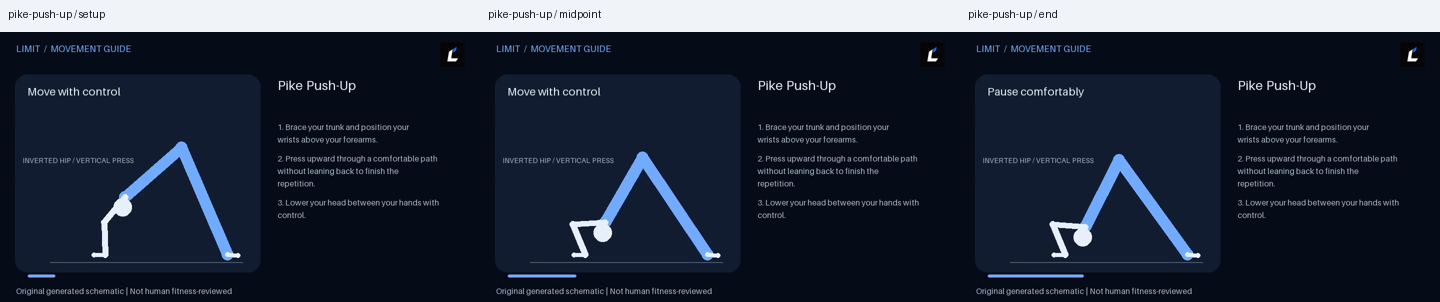
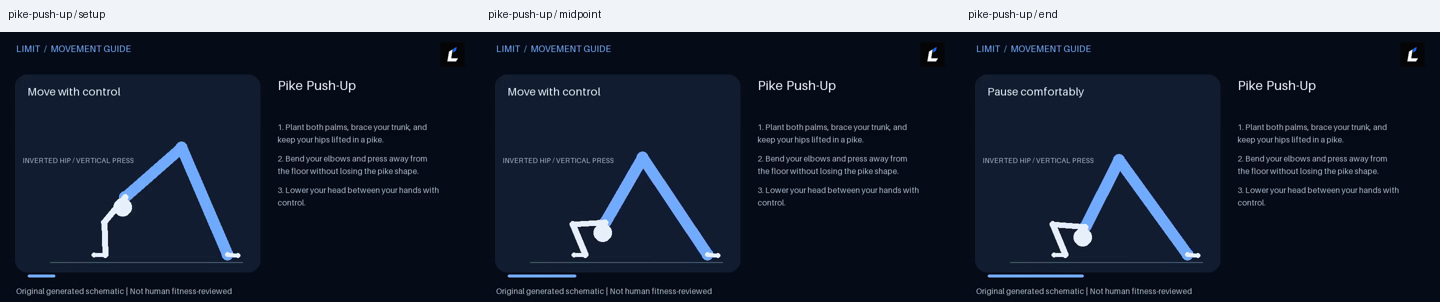
Correct inverted push-up cues and add cue-fit check

diff --git a/packages/domain/exerciseCatalog.js b/packages/domain/exerciseCatalog.js
@@ -219,6 +219,16 @@ Pike Push-Up|Bodyweight|I||Lower your head between your hands with control.
 Wall Handstand Push-Up|Bodyweight|A||Learn an exit with a coach and avoid loading the neck.
 `
 );
+groups.find((entry) => entry.catalogKey === "pike-push-up").instructions = [
+  "Plant both palms, brace your trunk, and keep your hips lifted in a pike.",
+  "Bend your elbows and press away from the floor without losing the pike shape.",
+  "Lower your head between your hands with control.",
+];
+groups.find((entry) => entry.catalogKey === "wall-handstand-push-up").instructions = [
+  "Plant both palms beneath your shoulders, brace your trunk, and keep foot contact with the wall.",
+  "Bend your elbows to lower your head toward the floor, then press back to a stable handstand.",
+  "Learn an exit with a coach and avoid loading the neck.",
+];
 group(
   "Side delts",
   [],

diff --git a/scripts/media/render.py b/scripts/media/render.py
@@ -2,7 +2,7 @@
 import argparse, csv, hashlib, json, math, os, pathlib, subprocess, textwrap
 from PIL import Image, ImageDraw, ImageFont
 from blockers import reason_for
-parser=argparse.ArgumentParser();parser.add_argument('--output',default='media-output');parser.add_argument('--ffmpeg',default=os.getenv('FFMPEG','ffmpeg'));parser.add_argument('--only');args=parser.parse_args()
+parser=argparse.ArgumentParser();parser.add_argument('--output',default='media-output');parser.add_argument('--ffmpeg',default=os.getenv('FFMPEG','ffmpeg'));parser.add_argument('--only');parser.add_argument('--check-cues',action='store_true');args=parser.parse_args()
 root=pathlib.Path(__file__).resolve().parents[2];out=pathlib.Path(args.output);out.mkdir(parents=True,exist_ok=True)
 catalog=json.loads((out/'catalog.json').read_text());W,H,FPS,DURATION=960,540,24,8
 # Pillow's bundled font makes rendering independent of installed system fonts.
@@ -4398,6 +4398,9 @@ def cue_layout(e):
  if lines and lines[-1][0]+18>490:raise ValueError('Exercise cues exceed panel height: '+e['catalogKey'])
  return lines
 for item in catalog:cue_layout(item)
+if args.check_cues:
+ print(json.dumps({'catalog':len(catalog),'completeCueLayouts':len(catalog)}))
+ raise SystemExit(0)
 logo=Image.open(root/'public/brand/limit-logo.png').convert('RGBA');logo.thumbnail((110,50))
 def frame(e,t,template=None):
  im=Image.new('RGB',(W,H),BG);d=ImageDraw.Draw(im);d.rounded_rectangle((30,85,520,480),24,fill=CARD)

diff --git a/docs/exercise-media.md b/docs/exercise-media.md
@@ -319,11 +319,11 @@ The hundred-and-twenty-sixth batch adds `behind-the-body-cable-lateral-raise` wi
 
[1 lines of base64/hex data omitted]
 
[2 lines of base64/hex data omitted]
 
[1 lines of base64/hex data omitted]
 
[2 lines of base64/hex data omitted]
 
[1 lines of base64/hex data omitted]
 
@@ -336,3 +336,5 @@ The hundred-and-thirty-fourth batch adds `landmine-squat` with a secured floor p
[1 lines of base64/hex data omitted]
 
[1 lines of base64/hex data omitted]
+
[1 lines of base64/hex data omitted]
